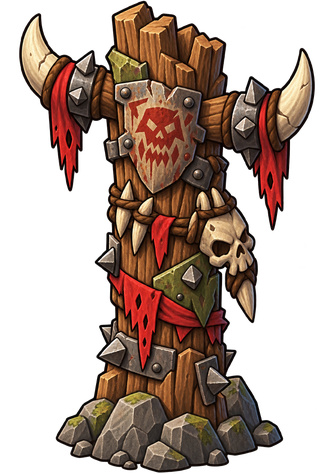
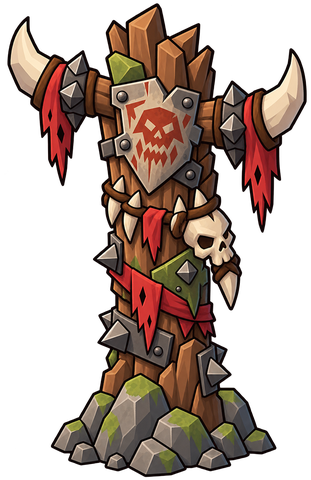
Actualizacion 21/09/2026  0:11:14,86

diff --git a/js/villages.js b/js/villages.js
@@ -48,6 +48,7 @@ const Villages = {
   _raceIds: { player: null, enemy: null },
   _nextId: 1,
   _flashEl: null,
+  _targetedIds: [],
 
   // Se llama junto a Glory.init (newgame-flow.js) para que Villages sepa
   // qué sprite de raza usar cuando cada equipo conquiste uno — mismo patrón
@@ -63,6 +64,7 @@ const Villages = {
   resetAll() {
     this.list.forEach((v) => v.el.remove());
     this.list = [];
+    this._targetedIds = [];
   },
 
   // Coloca VILLAGE_COUNT poblados en losetas transitables, libres (sin
@@ -152,6 +154,22 @@ const Villages = {
     }
     el.appendChild(hpBarEl);
 
+    // "cuando el totem este dentro del alcance de ataque de un personaje se
+    // debe poder atacar simplemente con pulsar sobre el, no solo sobre el
+    // circulo" (pedido explícito) — mismo patrón que Units._onUnitClick con
+    // "unit--targeted" para un rival atacable: si este tótem está marcado
+    // como objetivo ahora mismo (ver showFor, "village--targeted" más abajo)
+    // y hay una unidad seleccionada, un clic sobre el propio tótem ataca
+    // directamente en vez de no hacer nada (los poblados nunca se
+    // seleccionan, así que no hay que desviar ningún otro comportamiento).
+    el.addEventListener("click", (e) => {
+      if (!el.classList.contains("village--targeted")) return;
+      if (typeof Units === "undefined" || !Units.selectedId) return;
+      e.stopPropagation();
+      const attacker = Units.list.find((u) => u.id === Units.selectedId);
+      if (attacker) this.attack(attacker, village);
+    });
+
     if (typeof Units !== "undefined") Units.container.appendChild(el);
 
     const village = {
@@ -211,10 +229,23 @@ const Villages = {
         },
         onClick: () => this.attack(unit, village),
       });
+
+      // "village--targeted" — mismo patrón que "unit--targeted" en
+      // combat.js: marca el tótem como atacable ahora mismo, para que el
+      // clic directo sobre su sprite (ver el listener en _create) y el
+      // cursor de diana (ver style.css) sepan cuándo activarse.
+      village.el.classList.add("village--targeted");
+      this._targetedIds.push(village.id);
     });
   },
 
-  onClear() {},
+  onClear() {
+    this._targetedIds.forEach((id) => {
+      const village = this.list.find((v) => v.id === id);
+      if (village) village.el.classList.remove("village--targeted");
+    });
+    this._targetedIds = [];
+  },
 
   async attack(unit, village) {
     if (typeof Turns !== "undefined" && !Turns.canAct(unit)) return;
@@ -224,10 +255,6 @@ const Villages = {
 
     Units.clearRangeOverlays();
     Units.faceTowardsTile(unit, village.row, village.col);
-
-    // Golpear a un poblado cuenta como UNA de las 2 acciones del turno,
-    // igual que cualquier otra acción (moverse, golpear a un rival...).
-    if (typeof Turns !== "undefined") Turns.useAction(unit);
 
     // "los puntos acumulados del gnomo se restan a los puntos de vida del
     // poblado" — el daño es exactamente los puntos que llevaba encima, sin
@@ -240,10 +267,26 @@ const Villages = {
     // de este golpe concreto (nunca dañado antes, ni en este turno ni en
     // otro anterior) Y este golpe por sí solo lo deja a 0 o menos. Un
     // poblado ya dañado en un golpe previo que se remata después NO cuenta,
-    // aunque ese golpe final sí sea el que lo destruye.
+    // aunque ese golpe final sí sea el que lo destruye. Calculado ANTES de
+    // gastar la acción del turno (más abajo) porque el propio aviso visual
+    // de "sin acciones" depende de saber ya si esto va a ser un golpe
+    // mortal en un solo golpe o no.
     const wasFullHp = village.hp >= village.maxHp;
     village.hp = Math.max(0, village.hp - damage);
     const oneHitKill = wasFullHp && village.hp <= 0;
+
+    // Golpear a un poblado cuenta como UNA de las 2 acciones del turno,
+    // igual que cualquier otra acción (moverse, golpear a un rival...).
+    if (typeof Turns !== "undefined") Turns.useAction(unit);
+    // "cuando se machaca a un gnomo el personaje no debe tener los colores
+    // de inactivo hasta que se haya capturado el propio totem" (pedido
+    // explícito) — Turns.useAction ya cuenta la acción de verdad (para que
+    // canAct/el resto de reglas sigan siendo correctas durante todo el
+    // salto), pero el aviso VISUAL de "sin acciones" (unit--exhausted, ver
+    // turns.js) se quita otra vez aquí y no vuelve hasta el final de
+    // _playEpicSmash — así el personaje se ve a toda saturación durante su
+    // propio momento de gloria, no desteñido a media animación.
+    if (oneHitKill && unit.el) unit.el.classList.remove("unit--exhausted");
 
     if (oneHitKill) {
       // La animación épica se encarga ella sola de la retroalimentación de
@@ -275,6 +318,12 @@ const Villages = {
     if (village.hp <= 0) {
       this._capture(village, unit.team, oneHitKill ? 2 : 1);
     }
+
+    // Ahora que el tótem YA está capturado (si tocaba), toca reaplicar el
+    // aviso visual de "sin acciones" que se suprimió arriba durante el
+    // machacón épico — Turns.useAction ya había contado la acción de verdad
+    // desde el principio, esto solo pone al día el propio classList.
+    if (oneHitKill && typeof Turns !== "undefined") Turns.refreshExhaustedClass(unit);
 
     Units.refreshRange(unit);
   },
@@ -400,7 +449,11 @@ const Villages = {
     village.el.classList.remove("village--captured");
     void village.el.offsetWidth;
     village.el.classList.add("village--captured");
-    if (typeof SFX !== "undefined") SFX.glory();
+    // "Al conseguir un totem debe escucharse un sonido de satisfaccion"
+    // (pedido explícito) — sonido propio y más "grande" que el genérico de
+    // gloria (SFX.glory, ese sigue sonando aparte en el impacto del golpe
+    // mortal, ver _playEpicSmash), justo en el instante de la conquista.
+    if (typeof SFX !== "undefined") SFX.captureVillage();
     Units.spawnFloatingText(village, "¡Conquistado!", { className: "dmg-popup gnome-points-popup" });
     // El indicador discreto "+X / turno" del HUD de gloria (solo se pinta
     // el del jugador, ver glory.js) debe reflejar el nuevo poblado ya

diff --git a/css/style.css b/css/style.css
@@ -980,6 +980,27 @@ h2 {
   text-shadow: 0 0 10px rgba(0, 0, 0, 0.75), 0 0 22px rgba(255, 50, 50, 1);
 }
 
+/* Cursor de diana al pasar por encima de un objetivo atacable directamente
+   (unit--targeted: rival al alcance de Combat; village--targeted: tótem al
+   alcance de Villages con un gnomo en la mano) — pedido explícito: "cuando
+   se va a atacar el puntero del raton puede ser el icono pshopor target
+   como el que esta debajo de los personajes que se pueden atacar". Un
+   cursor CSS solo admite una imagen, no la propia fuente de iconos (que
+   además puede no estar cargada, ver notas sobre Phosphor/unpkg en otros
+   archivos), así que es un SVG propio a mano con el mismo lenguaje visual
+   que .attack-marker__icon de arriba (mismo rojo, contorno negro para que
+   se lea sobre cualquier fondo) en vez del glifo real. */
+.unit--targeted,
+.village.village--targeted {
+  /* .village.village--targeted (dos clases, no una) a propósito: más abajo
+     en este mismo archivo ".village { cursor: default; }" tiene la MISMA
+     especificidad que un simple ".village--targeted" y gana por venir
+     después en cascada — encadenar las dos clases sube la especificidad
+     para que el cursor de diana gane siempre, venga en el orden que venga
+     el resto de reglas. */
[1 lines of base64/hex data omitted]
+}
+
 /* Barrita de vida: solo visible mientras esa unidad concreta está
    seleccionada (amiga o rival), encima de la cabeza.
    Pedido explícito (primera pasada): "las barras de vida pueden estar
@@ -2128,7 +2149,9 @@ h2 {
 
 .glory-hud__value {
   font-weight: 800;
-  font-size: 1.6rem;
+  /* Pedido explícito: "el numero de puntos de gloria debe ser mas grande" —
+     de 1.6rem a 2.1rem. */
+  font-size: 2.1rem;
   letter-spacing: 0.01em;
   color: #000;
   min-width: 1.2em;
@@ -2138,7 +2161,10 @@ h2 {
    arriba a propósito (ver nota de cabecera) — solo informa, no compite por
    la atención. */
 .glory-hud__preview {
-  font-size: 0.68rem;
+  /* Pedido explícito: "el de los puntos de gloria persistentes cambien un
+     poco mas" — sube algo menos que glory-hud__value de arriba, sigue
+     siendo claramente secundario. */
+  font-size: 0.82rem;
   font-weight: 600;
   letter-spacing: 0.02em;
   color: rgba(0, 0, 0, 0.55);
@@ -2383,6 +2409,15 @@ h2 {
      conquistarse (village--captured más abajo). */
 }
 
+/* "el totem neutral debe ser un 15% mas pequeño" (pedido explícito) — solo
+   mientras sigue neutral (village--neutral, ver villages.js: esa clase se
+   quita en cuanto se conquista y pasa a village--player/village--enemy),
+   así que al capturarse recupera el 168px normal de cualquier otro tótem
+   sin que este archivo necesite saber nada del cambio de dueño. */
+.village--neutral .village__sprite {
+  width: 142.8px; /* 168px * 0.85 */
+}
+
 /* Pedido implícito (visibilidad): la barra de vida de una unidad normal
    solo se revela seleccionada/apuntada (ver .unit--selected .unit__hpbar
    más arriba) — un poblado nunca se selecciona, así que la suya está
@@ -2431,12 +2466,33 @@ h2 {
   animation: unit-epic-smash 1.1s cubic-bezier(0.22, 0, 0.3, 1);
 }
 
+/* "cuando el personaje salta, el gnomo debe seguir la trayectoria del salto
+   identica a la que se le aplica al peersonaje...hasta que lo estampe
+   contra el suelo" (pedido explícito) — .gnome-attach es un HERMANO de
+   .unit__sprite (los dos cuelgan de .unit__flip, ver gnome.js), así que el
+   salto de arriba no lo arrastraba consigo (transform no afecta a
+   elementos hermanos): sin esto el personaje subía solo y el gnomo se
+   quedaba clavado abajo, en su sitio de siempre. Misma animación, MISMA
+   duración/curva — exactamente el mismo arco, para que de verdad parezca
+   que sigue en su mano todo el trayecto (se destruye de verdad al llegar
+   el instante del impacto, ver Villages._playEpicSmash, así que no hace
+   falta preocuparse de "después" del golpe). */
+.unit--epic-smash .gnome-attach {
+  animation: unit-epic-smash 1.1s cubic-bezier(0.22, 0, 0.3, 1);
+}
+
 @keyframes unit-epic-smash {
+  /* "anima disorsionando (estirando y contrayendo)...para darle dinamismo"
+     (pedido explícito) — mismas fases y mismo timing de siempre (85% sigue
+     siendo el instante exacto del impacto, sincronizado a mano con
+     IMPACT_DELAY_MS en villages.js), solo con MÁS squash/stretch en cada
+     fase: más deformación, más giro, para que se note más el peso del
+     golpe. */
   0%   { transform: translateY(0) scale(1, 1) rotate(0deg); }
-  50%  { transform: translateY(-190px) scale(1.1, 0.94) rotate(-7deg); }
-  70%  { transform: translateY(-190px) scale(1.14, 0.9) rotate(-9deg); }
-  85%  { transform: translateY(10px) scale(1.28, 0.68) rotate(2deg); }
-  93%  { transform: translateY(-10px) scale(0.9, 1.16) rotate(-1deg); }
+  50%  { transform: translateY(-190px) scale(1.18, 0.88) rotate(-10deg); }
+  70%  { transform: translateY(-190px) scale(1.26, 0.8) rotate(-13deg); }
+  85%  { transform: translateY(10px) scale(1.42, 0.52) rotate(4deg); }
+  93%  { transform: translateY(-16px) scale(0.82, 1.28) rotate(-3deg); }
   100% { transform: translateY(0) scale(1, 1) rotate(0deg); }
 }
 

diff --git a/js/sfx.js b/js/sfx.js
@@ -223,6 +223,21 @@ const SFX = {
     setTimeout(() => this._pluck("glory-2", 880, "triangle", 0.18, 0.24), 70);
     setTimeout(() => this._pluck("glory-3", 1180, "triangle", 0.3, 0.26), 140);
   },
+
+  // Conquistar un tótem (Villages._capture) — pedido explícito: "un sonido
+  // de satisfaccion, recuerda, dopamina en vena con todo". Más largo y más
+  // "grande" que glory() de arriba a propósito (ese es el jingle genérico
+  // de "+X gloria", este es el remate de haber ganado todo un tótem):
+  // golpe grave de aterrizaje + arpegio de CUATRO notas (no tres) que sube
+  // más alto y remata con una nota brillante sostenida, como una campana de
+  // "jackpot" en vez de solo una moneda.
+  captureVillage() {
+    this._pluck("capture-thud", 130, "square", 0.16, 0.42);
+    setTimeout(() => this._pluck("capture-1", 520, "triangle", 0.16, 0.28), 60);
+    setTimeout(() => this._pluck("capture-2", 780, "triangle", 0.16, 0.28), 130);
+    setTimeout(() => this._pluck("capture-3", 1040, "triangle", 0.18, 0.3), 200);
+    setTimeout(() => this._pluck("capture-4", 1560, "triangle", 0.4, 0.34), 280);
+  },
 };
 
 const SFX_TARGETS =

diff --git a/js/fog.js b/js/fog.js
@@ -168,5 +168,18 @@ const Fog = {
         g.el.classList.toggle("unit--fog-hidden", this.isFogged(g.row, g.col));
       });
     }
+    // "los totems no deben verse a traves de la niebla, realmente NADA debe
+    // verse si tiene niebla encima" (pedido explícito) — a diferencia de
+    // las unidades de arriba, un poblado/tótem se oculta SIEMPRE que su
+    // loseta esté sin revelar, sea de quien sea (no hay excepción para
+    // "player" como con las unidades: un tótem no se mueve ni until ahora
+    // se sabía nada de esta regla, así que ni siquiera el propio tótem del
+    // jugador debía quedar visible antes de haber explorado su loseta).
+    if (typeof Villages !== "undefined") {
+      Villages.list.forEach((v) => {
+        if (!v.el) return;
+        v.el.classList.toggle("unit--fog-hidden", this.isFogged(v.row, v.col));
+      });
+    }
   },
 };

diff --git a/js/turns.js b/js/turns.js
@@ -94,6 +94,16 @@ const Turns = {
     unit.el.classList.toggle("unit--exhausted", exhausted);
   },
 
+  // Versión pública de lo de arriba — para archivos que a propósito
+  // suprimieron el aviso visual un rato (ver Villages._playEpicSmash: "el
+  // personaje no debe tener los colores de inactivo hasta que se haya
+  // capturado el propio totem") y necesitan volver a ponerlo al día sin
+  // tocar el conteo real de acciones (ese ya se actualizó al llamar a
+  // useAction en su momento, esto solo repinta el classList).
+  refreshExhaustedClass(unit) {
+    this._applyExhaustedClass(unit);
+  },
+
   // Vacía a 0 las acciones gastadas de TODAS las unidades de `team` y les
   // quita la saturación — se llama al EMPEZAR el turno de ese equipo (nunca
   // al terminarlo), así el otro equipo se queda viendo cómo de "gastadas"
